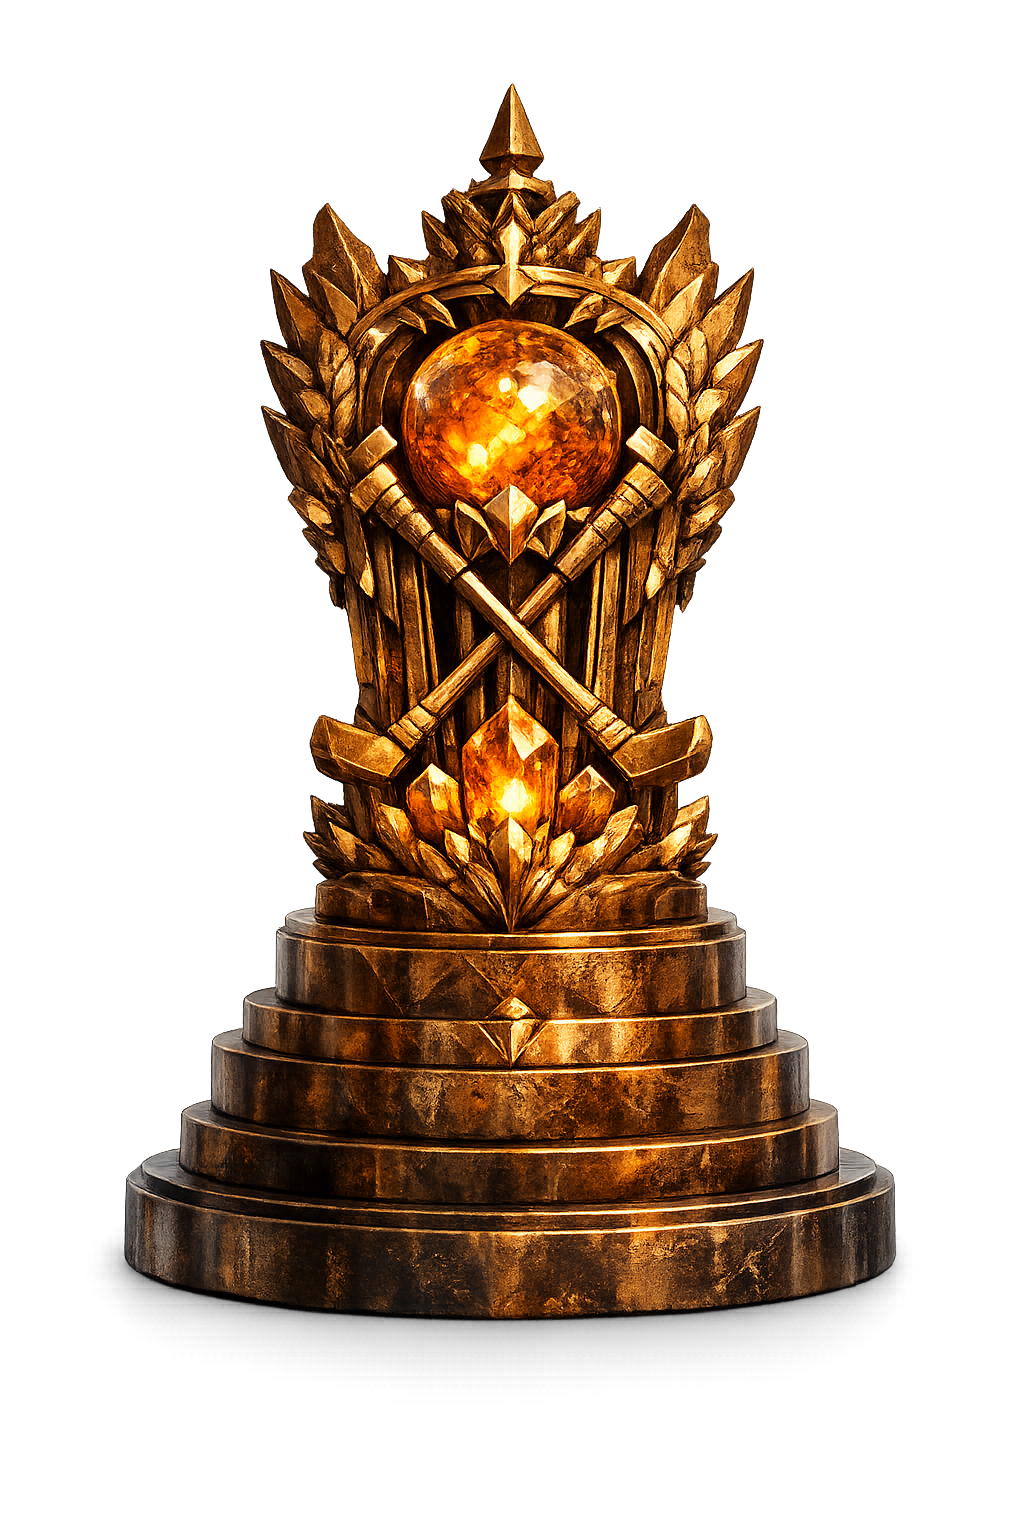
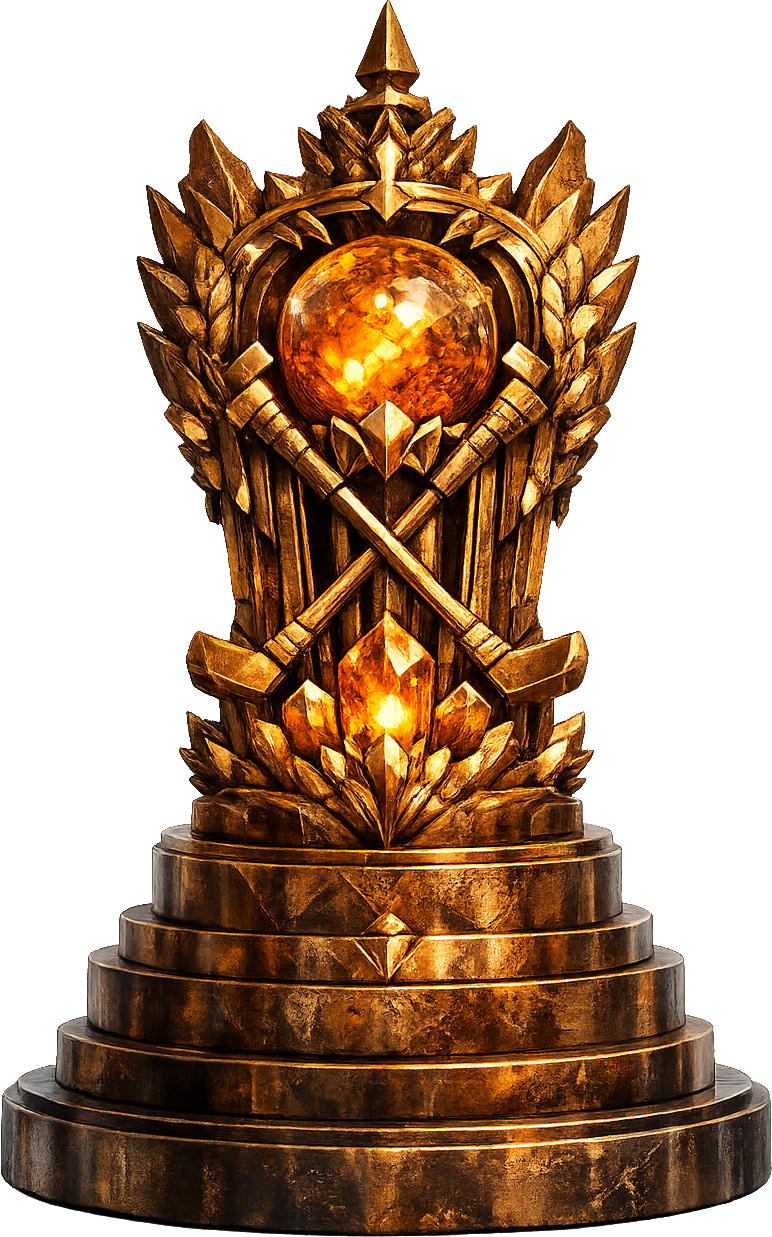
Update generic trophy images and improve trophy display CSS (#27)
- Replace Bronze, Gold, and Silver trophy images with higher quality versions
- Add CSS improvements for responsive trophy display
- Add overflow handling and object-fit for better image scaling

🤖 Generated with [Claude Code](https://claude.com/claude-code)

diff --git a/templates/trophies.html b/templates/trophies.html
@@ -71,18 +71,25 @@
         gap: 40px;
         margin-bottom: 15px;
         width: 100%;
+        overflow: hidden;
     }
 
     .trophy-item {
         display: flex;
         flex-direction: column;
         align-items: center;
+        flex-shrink: 1;
+        min-width: 0;
+        max-width: 45%;
     }
 
     .trophy-img {
         display: block;
         max-height: 650px;
+        max-width: 100%;
         width: auto;
+        height: auto;
+        object-fit: contain;
     }
 
     .trophy-title {
